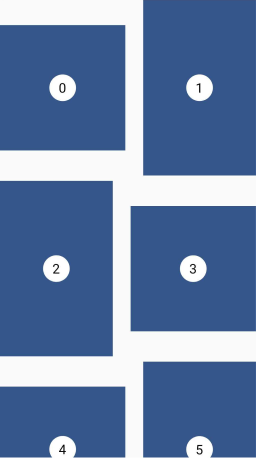
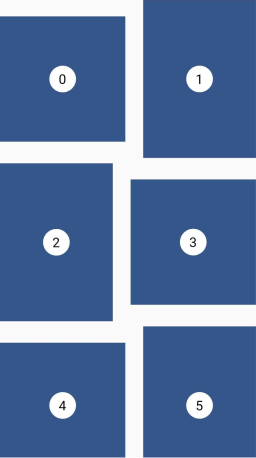
add woven test and fix main extent miscomputation

diff --git a/test/src/layouts/woven_test.dart b/test/src/layouts/woven_test.dart
@@ -1,0 +1,67 @@
+import 'package:flutter/foundation.dart';
+import 'package:flutter/widgets.dart';
+import 'package:flutter_staggered_grid_view/src/layouts/woven.dart';
+import 'package:flutter_test/flutter_test.dart';
+
+import '../../common.dart';
+
+void main() {
+  final binding = TestWidgetsFlutterBinding.ensureInitialized()
+      as TestWidgetsFlutterBinding;
+  testWidgets('Woven Grid control test', (WidgetTester tester) async {
+    await binding.setSurfaceSize(const Size(800, 800));
+    await tester.pumpWidget(
+      Directionality(
+        textDirection: TextDirection.ltr,
+        child: GridView.custom(
+          gridDelegate: SliverWovenGridDelegate.count(
+            crossAxisCount: 2,
+            mainAxisSpacing: 8,
+            crossAxisSpacing: 8,
+            pattern: const [
+              WovenGridTile(1),
+              WovenGridTile(
+                5 / 7,
+                crossAxisRatio: 0.9,
+                alignment: AlignmentDirectional.centerEnd,
+              ),
+            ],
+          ),
+          childrenDelegate: SliverChildBuilderDelegate(
+            (context, index) => Tile(index: index),
+          ),
+        ),
+      ),
+    );
+
+    void _expectSize(int index, Size size) {
+      expect(tester.getSize(find.text('$index')), equals(size));
+    }
+
+    void _expectTopLeft(int index, Offset topLeft) {
+      final actualOffset = tester.getTopLeft(find.text('$index'));
+      expect(
+        actualOffset.dx,
+        moreOrLessEquals(topLeft.dx, epsilon: precisionErrorTolerance),
+      );
+      expect(
+        actualOffset.dy,
+        moreOrLessEquals(topLeft.dy, epsilon: precisionErrorTolerance),
+      );
+    }
+
+    const s1 = 396.0;
+    const s2 = s1 * 0.9;
+    const s3 = s2 * 7 / 5;
+
+    _expectSize(0, const Size(s1, s1));
+    _expectSize(1, const Size(s2, s3));
+    _expectSize(2, const Size(s2, s3));
+    _expectSize(3, const Size(s1, s1));
+
+    _expectTopLeft(0, const Offset(0, (s3 - s1) / 2));
+    _expectTopLeft(1, const Offset(s1 + 8 + 0.1 * s1, 0));
+    _expectTopLeft(2, const Offset(0, s3 + 8));
+    _expectTopLeft(3, const Offset(s1 + 8, s3 + 8 + (s3 - s1) / 2));
+  });
+}

diff --git a/lib/src/layouts/woven.dart b/lib/src/layouts/woven.dart
@@ -71,6 +71,7 @@ class SliverWovenGridDelegate extends SliverPatternGridDelegate<WovenGridTile> {
   /// {@macro fsgv.global.tileBottomSpace}
   final double tileBottomSpace;
 
+  /// The direction in which the columns are ordered if the scroll is vertical.
   final TextDirection textDirection;
 
   @override
@@ -88,9 +89,10 @@ class SliverWovenGridDelegate extends SliverPatternGridDelegate<WovenGridTile> {
     final crossAxisStride = crossAxisExtent + crossAxisSpacing;
     final patternCount = pattern.length;
     // The minimum aspect ratio give us the main axis extent of a run.
-    final minAspectRatio = pattern.map((t) => t.aspectRatio).reduce(math.min);
-    final mainAxisExtent =
-        crossAxisExtent / minAspectRatio + (isHorizontal ? 0 : tileBottomSpace);
+    final maxMainAxisExtentRatio =
+        pattern.map((t) => t.crossAxisRatio / t.aspectRatio).reduce(math.max);
+    final mainAxisExtent = crossAxisExtent * maxMainAxisExtentRatio +
+        (isHorizontal ? 0 : tileBottomSpace);
 
     // We always provide 2 runs where the layout follow this pattern:
     // A B A || A B A B || A B C
@@ -108,7 +110,7 @@ class SliverWovenGridDelegate extends SliverPatternGridDelegate<WovenGridTile> {
       final tilePattern = pattern[tilePatternIndex];
       final tileCrossAxisExtent = crossAxisExtent * tilePattern.crossAxisRatio +
           (isHorizontal ? tileBottomSpace : 0);
-      final tileMainAxisExtent = crossAxisExtent / tilePattern.aspectRatio +
+      final tileMainAxisExtent = tileCrossAxisExtent / tilePattern.aspectRatio +
           (isHorizontal ? 0 : tileBottomSpace);
       final effectiveTextDirection = i < crossAxisCount
           ? textDirection

diff --git a/examples/lib/examples/staired.dart b/examples/lib/examples/staired.dart
@@ -11,7 +11,6 @@ class StairedPage extends StatelessWidget {
   Widget build(BuildContext context) {
     return AppScaffold(
       title: 'Staired',
-      topPadding: 8,
       child: GridView.custom(
         gridDelegate: SliverStairedGridDelegate(
           crossAxisSpacing: 48,

diff --git a/examples/lib/examples/quilted.dart b/examples/lib/examples/quilted.dart
@@ -11,7 +11,6 @@ class QuiltedPage extends StatelessWidget {
   Widget build(BuildContext context) {
     return AppScaffold(
       title: 'Quilted',
-      topPadding: 8,
       child: GridView.custom(
         gridDelegate: SliverQuiltedGridDelegate(
           crossAxisCount: 4,

diff --git a/examples/lib/examples/woven.dart b/examples/lib/examples/woven.dart
@@ -11,7 +11,6 @@ class WovenPage extends StatelessWidget {
   Widget build(BuildContext context) {
     return AppScaffold(
       title: 'Woven',
-      topPadding: 8,
       child: GridView.custom(
         gridDelegate: SliverWovenGridDelegate.count(
           crossAxisCount: 2,

diff --git a/examples/lib/examples/staggered.dart b/examples/lib/examples/staggered.dart
@@ -11,7 +11,6 @@ class StaggeredPage extends StatelessWidget {
   Widget build(BuildContext context) {
     return AppScaffold(
       title: 'Staggered',
-      topPadding: 8,
       child: SingleChildScrollView(
         child: StaggeredGrid.count(
           crossAxisCount: 4,

diff --git a/examples/lib/examples/masonry.dart b/examples/lib/examples/masonry.dart
@@ -12,7 +12,6 @@ class MasonryPage extends StatelessWidget {
   Widget build(BuildContext context) {
     return AppScaffold(
       title: 'Masonry',
-      topPadding: 8,
       child: MasonryGridView.count(
         crossAxisCount: 4,
         mainAxisSpacing: 4,
